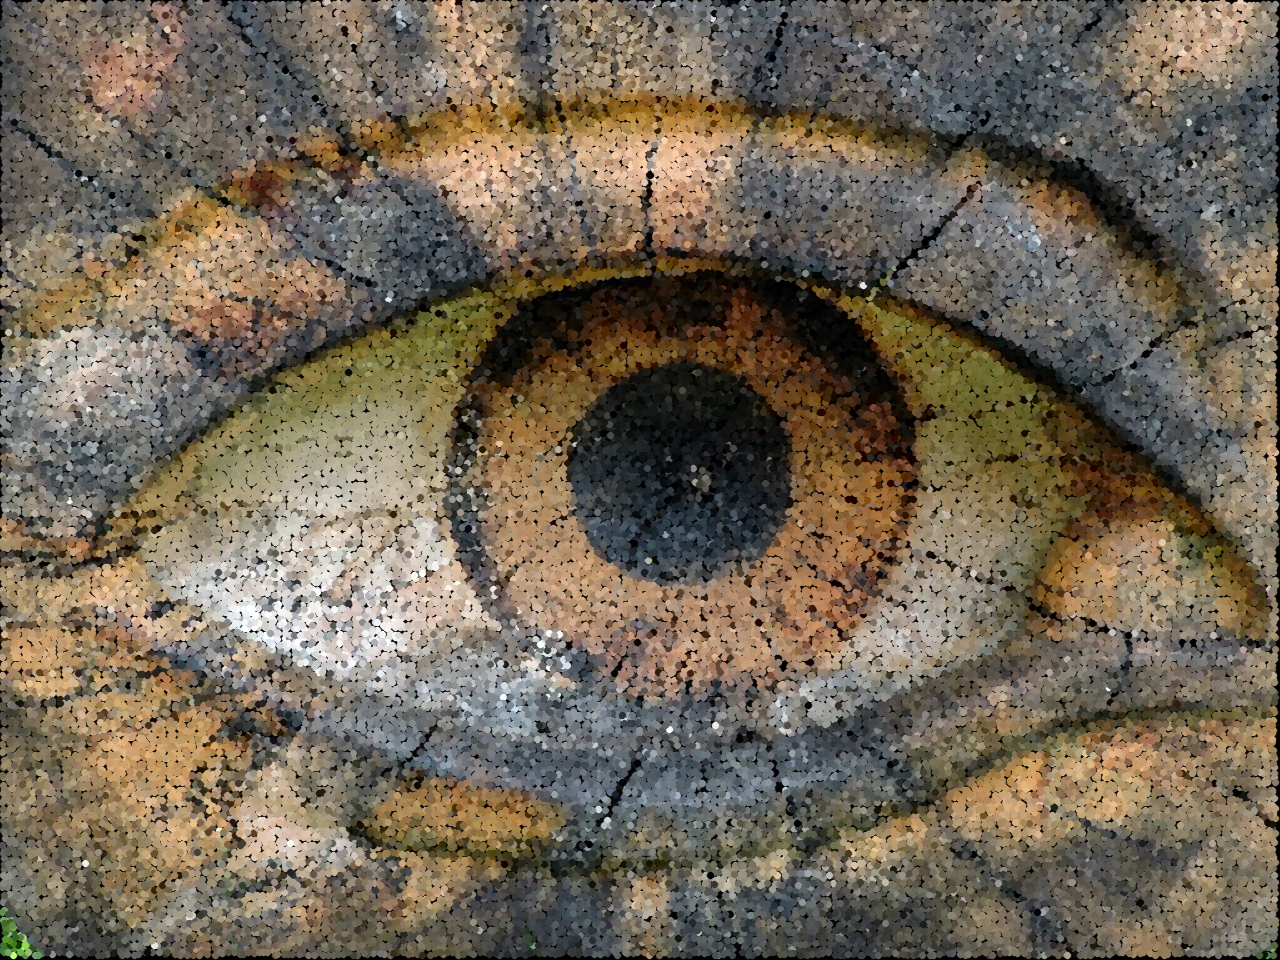
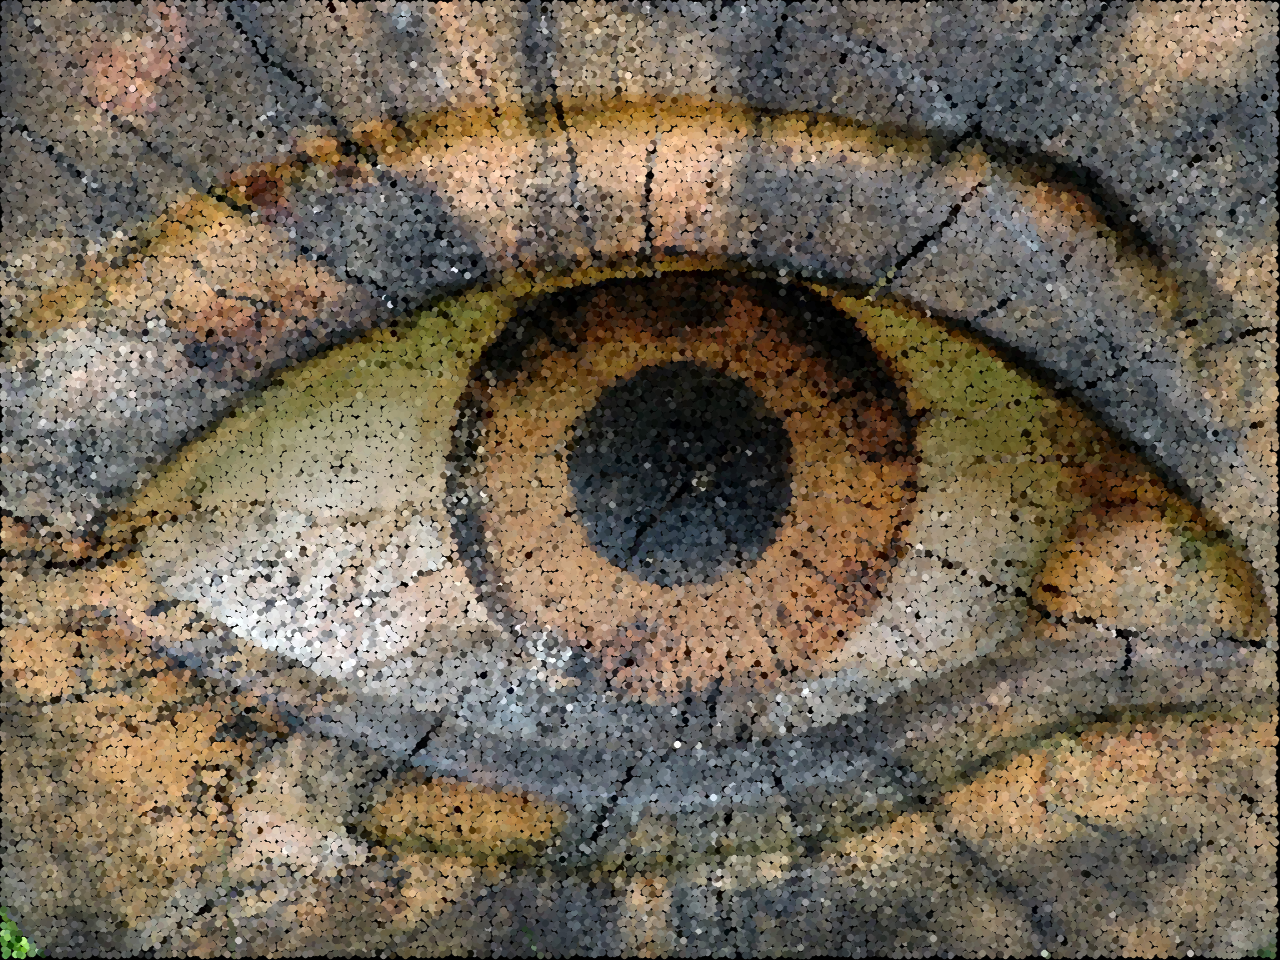
Final commit

diff --git a/deteccao-bordas/cannypoints.py b/deteccao-bordas/cannypoints.py
@@ -4,15 +4,14 @@ import numpy as np
 TOP_SLIDER = 10
 TOP_SLIDER_MAX = 400
 T1 = 10
-edges = 0
 
 STEP = 5
 JITTER = 3
-RAIO = 4
+RAIO = 3
 
 
 def setT1(t1):
-    global T1, edges, points
+    global T1, points
     T1 = t1
     edges = cv2.Canny(points, T1, 3 * T1)
     cv2.imshow("canny", edges)
@@ -30,7 +29,7 @@ def setT1(t1):
     cv2.imwrite("output/cannypoints.png", cannypoints)
 
 
-image = cv2.imread("resources/img5.png", cv2.IMREAD_COLOR)
+image = cv2.imread("resources/img7.png", cv2.IMREAD_COLOR)
 height, width = image.shape[:2]
 
 xrange = np.arange(0, image.shape[0] - STEP, STEP) + STEP // 2

diff --git a/deteccao-bordas/cannypoints_gray.py b/deteccao-bordas/cannypoints_gray.py
@@ -4,15 +4,14 @@ import numpy as np
 TOP_SLIDER = 10
 TOP_SLIDER_MAX = 400
 T1 = 10
-edges = 0
 
 STEP = 5
 JITTER = 3
-RAIO = 4
+RAIO = 3
 
 
 def setT1(t1):
-    global T1, edges, points
+    global T1, points
     T1 = t1
     edges = cv2.Canny(points, T1, 3 * T1)
     cv2.imshow("canny", edges)

diff --git a/k-means/kmeans.py b/k-means/kmeans.py
@@ -1,0 +1,8 @@
+import cv2
+
+ideal = cv2.imread("RX-CIO-ideal.png", cv2.IMREAD_COLOR)
+real = cv2.imread("RX-CIO-real.png", cv2.IMREAD_COLOR)
+
+resultado = cv2.addWeighted(real, 0.5, ideal, 0.5, 0.0)
+
+cv2.imwrite("RX-CIO-Resultado.png", resultado)
